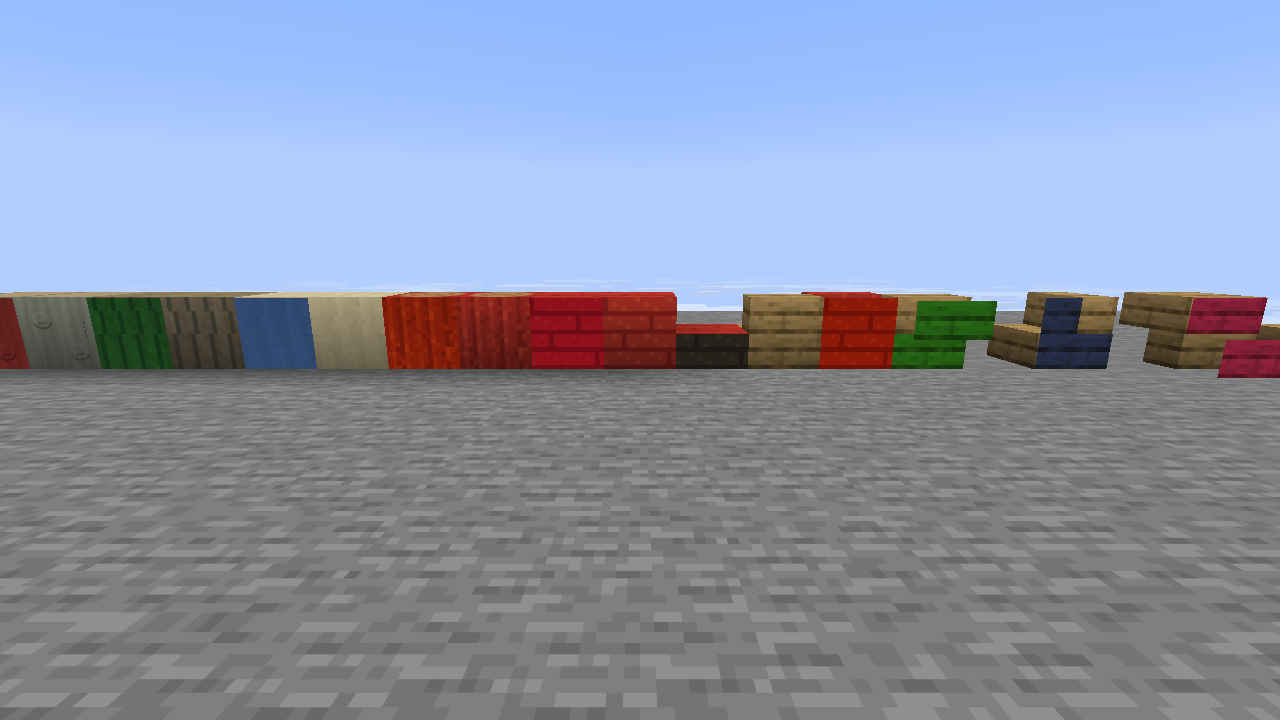
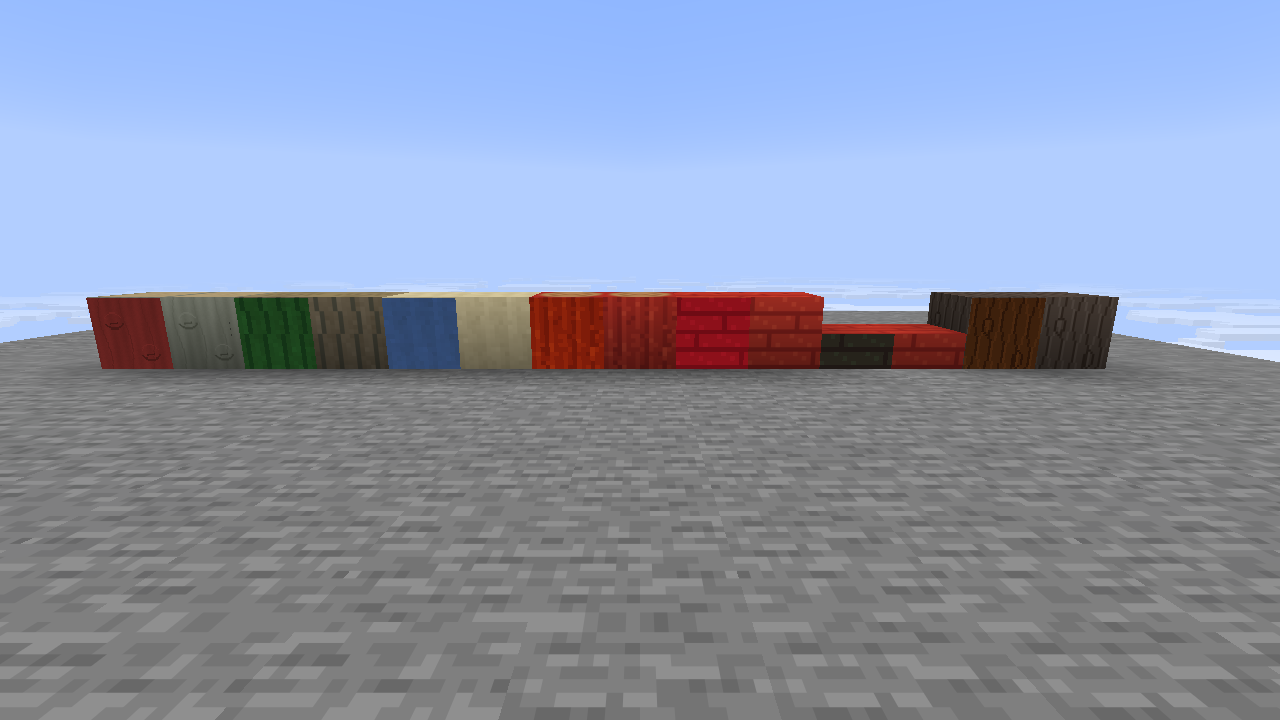
Drop stair painting, keep full blocks and slabs
楼梯侧面轮廓仍有偏差，暂不支持楼梯：画刷只作用于木制整面方块和半砖
（楼梯、栅栏等非整面方块刷上去会留下悬空色片）。漆面 Cover 收敛为
整面/上半/下半，渲染器与客户端场景同步精简，文档与验证记录更新。

diff --git a/src/main/java/dev/logos/dimension/client/PaintViews.java b/src/main/java/dev/logos/dimension/client/PaintViews.java
@@ -22,8 +22,8 @@ import net.minecraft.world.level.block.state.BlockState;
 import net.minecraft.world.phys.Vec3;
 
 /**
- * 油漆系统客户端场景：在测试平台上摆本附属的原木/木板/半砖/楼梯，
- * 表面贴不同颜色的漆面，人工截图核对半透明叠色是否透出各自木纹。
+ * 油漆系统客户端场景：在测试平台上摆本附属的原木/木板/半砖，表面刷不同颜色的漆面，
+ * 漆面/未刷交替对照，人工截图核对染色后的木纹与半砖覆盖。
  */
 public abstract class PaintViews implements UIScenario {
     protected static final int GROUND = 240;
@@ -34,32 +34,11 @@ public abstract class PaintViews implements UIScenario {
     protected BlockPos origin;
     protected Vec3 eye;
     protected final BlockPos[] painted = new BlockPos[COLORS.length];
-    protected BlockPos stairFront, stairSide, stairUpside;
 
-    protected double eyeX() { return 2.5; }
+    protected double eyeX() { return 0.5; }
     protected double eyeZ() { return 8.0; }
     protected float pitch() { return 12f; }
     protected String shot() { return "paint_surface_on_wood"; }
-
-    /** 摆一座精灵木楼梯（浅色木头，染色看得清）并刷一面漆，返回漆面位置。 */
-    private static BlockPos paintStair(ServerLevel level, BlockPos pos, Direction facing, boolean upsideDown,
-                                       Direction paintedFace, int color) {
-        BlockState stair = net.minecraft.world.level.block.Blocks.OAK_STAIRS.defaultBlockState()
-            .setValue(net.minecraft.world.level.block.StairBlock.FACING, facing)
-            .setValue(net.minecraft.world.level.block.StairBlock.HALF,
-                upsideDown ? net.minecraft.world.level.block.state.properties.Half.TOP
-                           : net.minecraft.world.level.block.state.properties.Half.BOTTOM);
-        level.setBlockAndUpdate(pos, stair);
-        BlockPos surface = pos.relative(paintedFace);
-        level.setBlockAndUpdate(surface, PaintSystem.SURFACE.get().defaultBlockState()
-            .setValue(DirectionalBlock.FACING, paintedFace.getOpposite())
-            .setValue(dev.logos.dimension.paint.PaintSurfaceBlock.COVER,
-                dev.logos.dimension.paint.PaintSurfaceBlock.coverFor(stair, paintedFace)));
-        if (level.getBlockEntity(surface) instanceof dev.logos.dimension.paint.PaintSurfaceBlockEntity be) {
-            be.setPaint(color);
-        }
-        return surface;
-    }
 
     @Override
     public void configure(ScenarioOptions o) {
@@ -81,7 +60,7 @@ public abstract class PaintViews implements UIScenario {
             .server("stage wood blocks with painted faces", ctx -> {
                 ServerLevel level = ctx.server().overworld();
                 origin = new BlockPos(0, GROUND, 0);
-                for (int x = -11; x <= 15; x++) {
+                for (int x = -11; x <= 9; x++) {
                     for (int z = -6; z <= 9; z++) {
                         level.setBlockAndUpdate(origin.offset(x, 0, z), Blocks.STONE.defaultBlockState());
                         for (int y = 1; y <= 6; y++) level.removeBlock(origin.offset(x, y, z), false);
@@ -90,7 +69,7 @@ public abstract class PaintViews implements UIScenario {
                 Block[] woods = {
                     CloudseaBlocks.STEM.get(), ElvenBlocks.LOG.get(), ElvenBlocks.PLANKS.get(),
                     FoxWildsBlocks.LACQUER_LOG.get(), FoxWildsBlocks.LACQUER_PLANKS.get(),
-                    FoxWildsBlocks.LACQUER_SLAB.get(), FoxWildsBlocks.LACQUER_STAIRS.get(),
+                    FoxWildsBlocks.LACQUER_SLAB.get(), CloudseaBlocks.DARK_TIMBER.get(),
                 };
                 for (int i = 0; i < woods.length; i++) {
                     // 交替列：偶数 x 刷漆，奇数 x 用同样的木头但不刷漆，便于对照
@@ -101,24 +80,13 @@ public abstract class PaintViews implements UIScenario {
                     level.setBlockAndUpdate(surface, PaintSystem.SURFACE.get().defaultBlockState()
                         .setValue(DirectionalBlock.FACING, Direction.NORTH)
                         .setValue(dev.logos.dimension.paint.PaintSurfaceBlock.COVER,
-                            dev.logos.dimension.paint.PaintSurfaceBlock.coverFor(woodState, Direction.SOUTH)));
+                            dev.logos.dimension.paint.PaintSurfaceBlock.coverFor(woodState)));
                     if (level.getBlockEntity(surface) instanceof dev.logos.dimension.paint.PaintSurfaceBlockEntity be) {
                         be.setPaint(COLORS[i]);
                     }
                     painted[i] = surface;
                     level.setBlockAndUpdate(origin.offset(-6 + i * 2, 1, 0), woodState);
                 }
-                // 楼梯：正面（低侧 L 形）、侧面（镜像 L）、倒置楼梯正面，验证贴合；
-                // 都刷朝镜头的南面，截图里能直接看到覆盖轮廓
-                // 楼梯之间留一格空位，避免相邻楼梯互相改成形（shape=inner_*）导致轮廓变化
-                stairFront = paintStair(level, origin.offset(6, 1, 0), Direction.SOUTH, false, Direction.SOUTH, 0xFF44E044);
-                stairSide = paintStair(level, origin.offset(8, 1, 0), Direction.EAST, false, Direction.SOUTH, 0xFF4466FF);
-                stairUpside = paintStair(level, origin.offset(10, 1, 0), Direction.SOUTH, true, Direction.SOUTH, 0xFFFF44CC);
-                // 楼梯对照：同款未刷漆，同样留空
-                level.setBlockAndUpdate(origin.offset(4, 1, 0), net.minecraft.world.level.block.Blocks.OAK_STAIRS.defaultBlockState()
-                    .setValue(net.minecraft.world.level.block.StairBlock.FACING, Direction.SOUTH));
-                level.setBlockAndUpdate(origin.offset(12, 1, 0), net.minecraft.world.level.block.Blocks.OAK_STAIRS.defaultBlockState()
-                    .setValue(net.minecraft.world.level.block.StairBlock.FACING, Direction.SOUTH));
                 eye = new Vec3(origin.getX() + eyeX(), GROUND + 2.7, origin.getZ() + eyeZ());
                 DimensionTravel.teleport(ctx.player(), level, eye, 180f, pitch());
             })
@@ -136,16 +104,11 @@ public abstract class PaintViews implements UIScenario {
                 }
                 return true;
             })
-            .checkServer("stair and slab covers fitted to shape", ctx -> {
+            .checkServer("slab cover fitted to half", ctx -> {
                 ServerLevel level = ctx.server().overworld();
                 var cover = dev.logos.dimension.paint.PaintSurfaceBlock.COVER;
-                var stairShape = net.minecraft.world.level.block.StairBlock.SHAPE;
-                return level.getBlockState(stairFront).getValue(cover) == dev.logos.dimension.paint.PaintSurfaceBlock.Cover.FRONT_STEP
-                    && level.getBlockState(stairSide).getValue(cover) == dev.logos.dimension.paint.PaintSurfaceBlock.Cover.SIDE_LEFT
-                    && level.getBlockState(stairUpside).getValue(cover) == dev.logos.dimension.paint.PaintSurfaceBlock.Cover.FRONT_STEP_UD
-                    && level.getBlockState(painted[5]).getValue(cover) == dev.logos.dimension.paint.PaintSurfaceBlock.Cover.HALF_BOTTOM
-                    && level.getBlockState(stairSide.relative(Direction.NORTH)).getValue(stairShape)
-                        == net.minecraft.world.level.block.state.properties.StairsShape.STRAIGHT;
+                return level.getBlockState(painted[5]).getValue(cover)
+                    == dev.logos.dimension.paint.PaintSurfaceBlock.Cover.HALF_BOTTOM;
             })
             .check("painted surfaces present on client", ctx -> {
                 var mc = Minecraft.getInstance();
@@ -188,14 +151,5 @@ public abstract class PaintViews implements UIScenario {
 
     @LDLRegisterClient(name = "paint_views", group = "paint", registry = UIScenario.REGISTRY, environment = RegistrationEnvironment.DEV_ONLY)
     public static class Surfaces extends PaintViews {
-    }
-
-    /** 正对三段楼梯的近景，用于核对 L 形覆盖是否贴合。 */
-    @LDLRegisterClient(name = "paint_stairs", group = "paint", registry = UIScenario.REGISTRY, environment = RegistrationEnvironment.DEV_ONLY)
-    public static class Stairs extends PaintViews {
-        @Override protected double eyeX() { return 8.5; }
-        @Override protected double eyeZ() { return 5.0; }
-        @Override protected float pitch() { return 6f; }
-        @Override protected String shot() { return "paint_stairs_closeup"; }
     }
 }

diff --git a/src/main/java/dev/logos/dimension/paint/PaintSurfaceBlock.java b/src/main/java/dev/logos/dimension/paint/PaintSurfaceBlock.java
@@ -13,13 +13,11 @@ import net.minecraft.world.level.block.Mirror;
 import net.minecraft.world.level.block.RenderShape;
 import net.minecraft.world.level.block.Rotation;
 import net.minecraft.world.level.block.SlabBlock;
-import net.minecraft.world.level.block.StairBlock;
 import net.minecraft.world.level.block.entity.BlockEntity;
 import net.minecraft.world.level.block.state.BlockBehaviour;
 import net.minecraft.world.level.block.state.BlockState;
 import net.minecraft.world.level.block.state.StateDefinition;
 import net.minecraft.world.level.block.state.properties.EnumProperty;
-import net.minecraft.world.level.block.state.properties.Half;
 import net.minecraft.world.level.block.state.properties.SlabType;
 import net.minecraft.world.phys.shapes.CollisionContext;
 import net.minecraft.world.phys.shapes.Shapes;
@@ -28,25 +26,14 @@ import org.jspecify.annotations.Nullable;
 
 /**
  * 漆面：贴在方块表面的薄油漆层，占相邻一格、无碰撞（只是视觉效果）。
- * FACING 表示漆层贴在目标方块的哪一面，COVER 表示按目标方块轮廓选出的形状变体
- * （整面、上下半砖、楼梯正面/侧面/上表面），由画刷在刷漆时按目标方块计算。
+ * FACING 表示漆层贴在目标方块的哪一面；COVER 区分整面与上/下半砖。
+ * 楼梯、栅栏等非整面方块不支持刷漆（避免悬空色片）。
  */
 public class PaintSurfaceBlock extends DirectionalBlock implements EntityBlock {
-    /** 漆层形状：与 tools/paint_surface_models.py 生成的变体一一对应。 */
     public enum Cover implements StringRepresentable {
         FULL("full"),
         HALF_BOTTOM("half_bottom"),
-        HALF_TOP("half_top"),
-        FRONT_STEP("front_step"),
-        FRONT_STEP_UD("front_step_ud"),
-        SIDE_LEFT("side_left"),
-        SIDE_RIGHT("side_right"),
-        SIDE_LEFT_UD("side_left_ud"),
-        SIDE_RIGHT_UD("side_right_ud"),
-        STRIP_Y0("strip_y0"),
-        STRIP_Y1("strip_y1"),
-        STRIP_X0("strip_x0"),
-        STRIP_X1("strip_x1");
+        HALF_TOP("half_top");
 
         private final String name;
 
@@ -85,17 +72,6 @@ public class PaintSurfaceBlock extends DirectionalBlock implements EntityBlock {
 
     @Override
     protected BlockState mirror(BlockState state, Mirror mirror) {
-        if (mirror != Mirror.NONE) {
-            state = switch (state.getValue(COVER)) {
-                case SIDE_LEFT -> state.setValue(COVER, Cover.SIDE_RIGHT);
-                case SIDE_RIGHT -> state.setValue(COVER, Cover.SIDE_LEFT);
-                case SIDE_LEFT_UD -> state.setValue(COVER, Cover.SIDE_RIGHT_UD);
-                case SIDE_RIGHT_UD -> state.setValue(COVER, Cover.SIDE_LEFT_UD);
-                case STRIP_X0 -> state.setValue(COVER, Cover.STRIP_X1);
-                case STRIP_X1 -> state.setValue(COVER, Cover.STRIP_X0);
-                default -> state;
-            };
-        }
         return state.rotate(mirror.getRotation(state.getValue(FACING)));
     }
 
@@ -105,12 +81,8 @@ public class PaintSurfaceBlock extends DirectionalBlock implements EntityBlock {
         return this.defaultBlockState().setValue(FACING, context.getClickedFace());
     }
 
-    /**
-     * 按目标方块轮廓决定漆面变体：半砖取上下半，楼梯按被刷的是正面/背面/侧面/上表面
-     * 选阶梯 L 形或半条，其余方块整面覆盖。
-     */
-    public static Cover coverFor(BlockState target, Direction face) {
-        Direction surfaceFacing = face.getOpposite();
+    /** 按目标方块轮廓选漆面变体：半砖取上/下半，其余整面。 */
+    public static Cover coverFor(BlockState target) {
         if (target.getBlock() instanceof SlabBlock) {
             return switch (target.getValue(SlabBlock.TYPE)) {
                 case DOUBLE -> Cover.FULL;
@@ -118,56 +90,7 @@ public class PaintSurfaceBlock extends DirectionalBlock implements EntityBlock {
                 case TOP -> Cover.HALF_TOP;
             };
         }
-        if (target.getBlock() instanceof StairBlock) {
-            Direction stairFacing = target.getValue(StairBlock.FACING);
-            Direction high = stairFacing.getOpposite();
-            boolean upsideDown = target.getValue(StairBlock.HALF) == Half.TOP;
-            if (face == Direction.UP) {
-                // 正常楼梯的上表面只有高侧台面在本格；倒置楼梯上表面是整面
-                return upsideDown ? Cover.FULL : strip(high, surfaceFacing);
-            }
-            if (face == Direction.DOWN) {
-                // 正常楼梯底面整面；倒置楼梯只有凸出的那一半在本格
-                return upsideDown ? strip(high, surfaceFacing) : Cover.FULL;
-            }
-            if (face == stairFacing) {
-                return upsideDown ? Cover.FRONT_STEP_UD : Cover.FRONT_STEP;
-            }
-            if (face == stairFacing.getOpposite()) {
-                return Cover.FULL;
-            }
-            // 侧面：上半部分要落在高侧；局部 +x 方向由漆面方块自己的朝向决定
-            boolean rightSide = localRight(surfaceFacing) == high;
-            if (upsideDown) {
-                return rightSide ? Cover.SIDE_RIGHT_UD : Cover.SIDE_LEFT_UD;
-            }
-            return rightSide ? Cover.SIDE_RIGHT : Cover.SIDE_LEFT;
-        }
         return Cover.FULL;
-    }
-
-    /** 漆面模型局部 +x 在世界中的方向（与 blockstate 的旋转约定一致）。 */
-    private static Direction localRight(Direction surfaceFacing) {
-        return switch (surfaceFacing) {
-            case NORTH -> Direction.EAST;
-            case SOUTH -> Direction.WEST;
-            case EAST -> Direction.SOUTH;
-            case WEST -> Direction.NORTH;
-            default -> Direction.EAST;
-        };
-    }
-
-    /**
-     * 上/下表面只盖高侧一半时选半条：漆面朝下（x=90）时局部 +y 指南，朝上（x=270）时指北。
-     */
-    private static Cover strip(Direction high, Direction surfaceFacing) {
-        boolean localUpIsNorth = surfaceFacing == Direction.UP;
-        return switch (high) {
-            case NORTH -> localUpIsNorth ? Cover.STRIP_Y1 : Cover.STRIP_Y0;
-            case SOUTH -> localUpIsNorth ? Cover.STRIP_Y0 : Cover.STRIP_Y1;
-            case EAST -> Cover.STRIP_X1;
-            default -> Cover.STRIP_X0;
-        };
     }
 
     @Override

diff --git a/src/main/java/dev/logos/dimension/paint/PaintBrushItem.java b/src/main/java/dev/logos/dimension/paint/PaintBrushItem.java
@@ -4,6 +4,7 @@ import net.minecraft.core.BlockPos;
 import net.minecraft.core.Direction;
 import net.minecraft.sounds.SoundEvents;
 import net.minecraft.sounds.SoundSource;
+import net.minecraft.world.level.block.SlabBlock;
 import net.minecraft.world.level.block.SoundType;
 import net.minecraft.world.level.block.state.BlockState;
 import net.minecraft.world.InteractionHand;
@@ -82,8 +83,10 @@ public class PaintBrushItem extends Item {
                 Direction face = blockHit.getDirection();
                 BlockPos targetPos = blockHit.getBlockPos();
                 BlockState target = level.getBlockState(targetPos);
-                // 只刷木制方块（按原版音效材质判定，覆盖原木、木板、楼梯、半砖、栅栏等）
-                if (target.getSoundType(level, targetPos, player) != SoundType.WOOD) {
+                // 只刷木制的整面方块和半砖：楼梯、栅栏等非整面方块不做（会留下悬空色片）
+                boolean paintable = target.getSoundType(level, targetPos, player) == SoundType.WOOD
+                    && (target.getBlock() instanceof SlabBlock || target.isCollisionShapeFullBlock(level, targetPos));
+                if (!paintable) {
                     return stack;
                 }
                 BlockPos surfacePos = targetPos.relative(face);
@@ -92,7 +95,7 @@ public class PaintBrushItem extends Item {
                     // 漆层贴在漆面格子里靠目标方块的一侧，所以朝向取被刷面的反方向
                     level.setBlock(surfacePos, PaintSystem.SURFACE.get().defaultBlockState()
                             .setValue(DirectionalBlock.FACING, face.getOpposite())
-                            .setValue(PaintSurfaceBlock.COVER, PaintSurfaceBlock.coverFor(target, face)), 3);
+                            .setValue(PaintSurfaceBlock.COVER, PaintSurfaceBlock.coverFor(target)), 3);
                     if (level.getBlockEntity(surfacePos) instanceof PaintSurfaceBlockEntity surface) {
                         surface.setPaint(color);
                     }

diff --git a/src/main/java/dev/logos/dimension/client/PaintSurfaceRenderer.java b/src/main/java/dev/logos/dimension/client/PaintSurfaceRenderer.java
@@ -129,28 +129,12 @@ public class PaintSurfaceRenderer implements BlockEntityRenderer<PaintSurfaceBlo
         };
     }
 
-    /** 每个元素：{x0, y0, x1, y1, 距贴面深度}；深度 8 的是楼梯高台后退的那一截。 */
+    /** 每个元素：{x0, y0, x1, y1, 距贴面深度}。 */
     private static List<float[]> boxes(PaintSurfaceBlock.Cover cover) {
         return switch (cover) {
             case FULL -> List.of(new float[]{0, 0, 16, 16, THICKNESS});
             case HALF_BOTTOM -> List.of(new float[]{0, 0, 16, 8, THICKNESS});
             case HALF_TOP -> List.of(new float[]{0, 8, 16, 16, THICKNESS});
-            case FRONT_STEP -> List.of(new float[]{0, 0, 16, 8, THICKNESS},
-                                       new float[]{0, 8, 16, 16, 8f + THICKNESS});
-            case FRONT_STEP_UD -> List.of(new float[]{0, 8, 16, 16, THICKNESS},
-                                          new float[]{0, 0, 16, 8, 8f + THICKNESS});
-            case SIDE_LEFT -> List.of(new float[]{0, 0, 16, 8, THICKNESS},
-                                      new float[]{0, 8, 8, 16, THICKNESS});
-            case SIDE_RIGHT -> List.of(new float[]{0, 0, 16, 8, THICKNESS},
-                                       new float[]{8, 8, 16, 16, THICKNESS});
-            case SIDE_LEFT_UD -> List.of(new float[]{0, 8, 16, 16, THICKNESS},
-                                         new float[]{0, 0, 8, 8, THICKNESS});
-            case SIDE_RIGHT_UD -> List.of(new float[]{0, 8, 16, 16, THICKNESS},
-                                          new float[]{8, 0, 16, 8, THICKNESS});
-            case STRIP_Y0 -> List.of(new float[]{0, 0, 16, 8, THICKNESS});
-            case STRIP_Y1 -> List.of(new float[]{0, 8, 16, 16, THICKNESS});
-            case STRIP_X0 -> List.of(new float[]{0, 0, 8, 16, THICKNESS});
-            case STRIP_X1 -> List.of(new float[]{8, 0, 16, 16, THICKNESS});
         };
     }
 }

diff --git a/VERIFICATION.md b/VERIFICATION.md
@@ -2,16 +2,16 @@
 
 ## 油漆：漆面、画刷与调色盘
 
-2026-11-03：分支 `feat/paint-system`，基于 main `e5a9206`。设计见 [油漆](docs/PAINT.md)。新增漆面方块（薄层、无碰撞、颜色存方块实体、按目标轮廓选形状）、画刷（原版刷子动作，按住刷）、调色盘（可放置，右键打开 256 色调配页），配方、创造栏与掉落表一并补齐。
+2026-11-03：分支 `feat/paint-system`，基于 main `e5a9206`。设计见 [油漆](docs/PAINT.md)。新增漆面方块（薄层、无碰撞、颜色存方块实体、整面/半砖两种轮廓）、画刷（原版刷子动作，按住刷）、调色盘（可放置，右键打开 256 色调配页），配方、创造栏与掉落表一并补齐。楼梯、栅栏等非整面方块不支持刷漆。
 
 | 层级 | 结果 |
 | --- | --- |
 | 编译 | `./gradlew build -PlogosJar=…` 编译与资源处理通过；本机 `:test` 测试执行器无法启动（Gradle 报 `version is null`），**单元测试未运行，不计为已验证** |
 | 世界测试 | 未新增 GameTest |
-| 实际客户端 | **3/3 场景、7/7 检查**：`./gradlew --offline runClient -PlogosJar=… -PldTest=paint_stairs,paint_views,paint_palette_ui -PldTestHeadless -PldTestWindow=1280x720`。漆面颜色写入方块实体、半砖与三种楼梯的 `cover` 变体、楼梯 `shape=straight` 均断言通过；人工查看截图确认染色后木纹清晰、楼梯 L 形贴合 |
+| 实际客户端 | **2/2 场景、4/4 检查**：`./gradlew --offline runClient -PlogosJar=… -PldTest=paint_views,paint_palette_ui -PldTestHeadless -PldTestWindow=1280x720`。漆面颜色写入方块实体、半砖 `cover=half_bottom` 均断言通过；人工查看截图确认染色后木纹清晰 |
 | 未验证 | 光影包、多人颜色同步、生存获取（配方与掉落已加，未实测） |
 
-截图：[调配页](docs/screenshots/paint/palette.png) · [漆面与木纹](docs/screenshots/paint/surface-on-wood.png) · [楼梯贴合](docs/screenshots/paint/stairs.png)
+截图：[调配页](docs/screenshots/paint/palette.png) · [漆面与木纹](docs/screenshots/paint/surface-on-wood.png)
 
 ## 钱庄：存款、借款与杠杆交易
 

diff --git a/docs/PAINT.md b/docs/PAINT.md
@@ -1,6 +1,6 @@
 # 油漆：漆面、画刷与调色盘
 
-给本附属自己的木制方块（原木、木板、楼梯、半砖、栅栏、木料等，按原版音效材质 `SoundType.WOOD` 判定）刷上任意颜色的薄漆层，只改颜色、不盖住木纹。
+给本附属自己的木制整面方块和半砖（原木、木板、木料、半砖等，按原版音效材质 `SoundType.WOOD` 判定）刷上任意颜色的薄漆层，只改颜色、不盖住木纹。楼梯、栅栏等非整面方块不支持刷漆（避免留下悬空色片）。
 
 ## 用法
 
@@ -10,7 +10,7 @@
 4. 手持画刷**右键放置的调色盘**：蘸色（画刷记下调色盘的颜色）。
 5. 手持画刷**按住右键**对着木方块刷（沿用原版刷子的动作与音效），松开后在那一面形成对应颜色的漆面。
 
-漆面只覆盖平齐的那一面：半砖按上/下半覆盖，楼梯按被刷的正面（L 形，上半后退）、侧面（L 形，上半落在高侧）、倒置楼梯（上半齐平、下半凹陷）、上/下表面（只盖高侧半条）选轮廓。
+漆面只覆盖平齐的那一面：整面方块按整面覆盖，半砖只盖实际的那一半（上/下）。
 
 ## 实现
 
@@ -22,7 +22,7 @@
 ## 维护
 
 ```text
-./gradlew runClient -PlogosJar=... -PldTest=paint_stairs,paint_views,paint_palette_ui -PldTestHeadless -PldTestWindow=1280x720
+./gradlew runClient -PlogosJar=... -PldTest=paint_views,paint_palette_ui -PldTestHeadless -PldTestWindow=1280x720
 ```
 
-场景截图在 `build/ldlib2-uitest/screenshots/`；`paint_views` 是漆面/未刷交替对照，`paint_stairs` 是三种楼梯近景，`paint_palette_ui` 是调配页。截图存档见 [油漆截图](screenshots/paint/)。
+场景截图在 `build/ldlib2-uitest/screenshots/`；`paint_views` 是漆面/未刷交替对照，`paint_palette_ui` 是调配页。截图存档见 [油漆截图](screenshots/paint/)。
